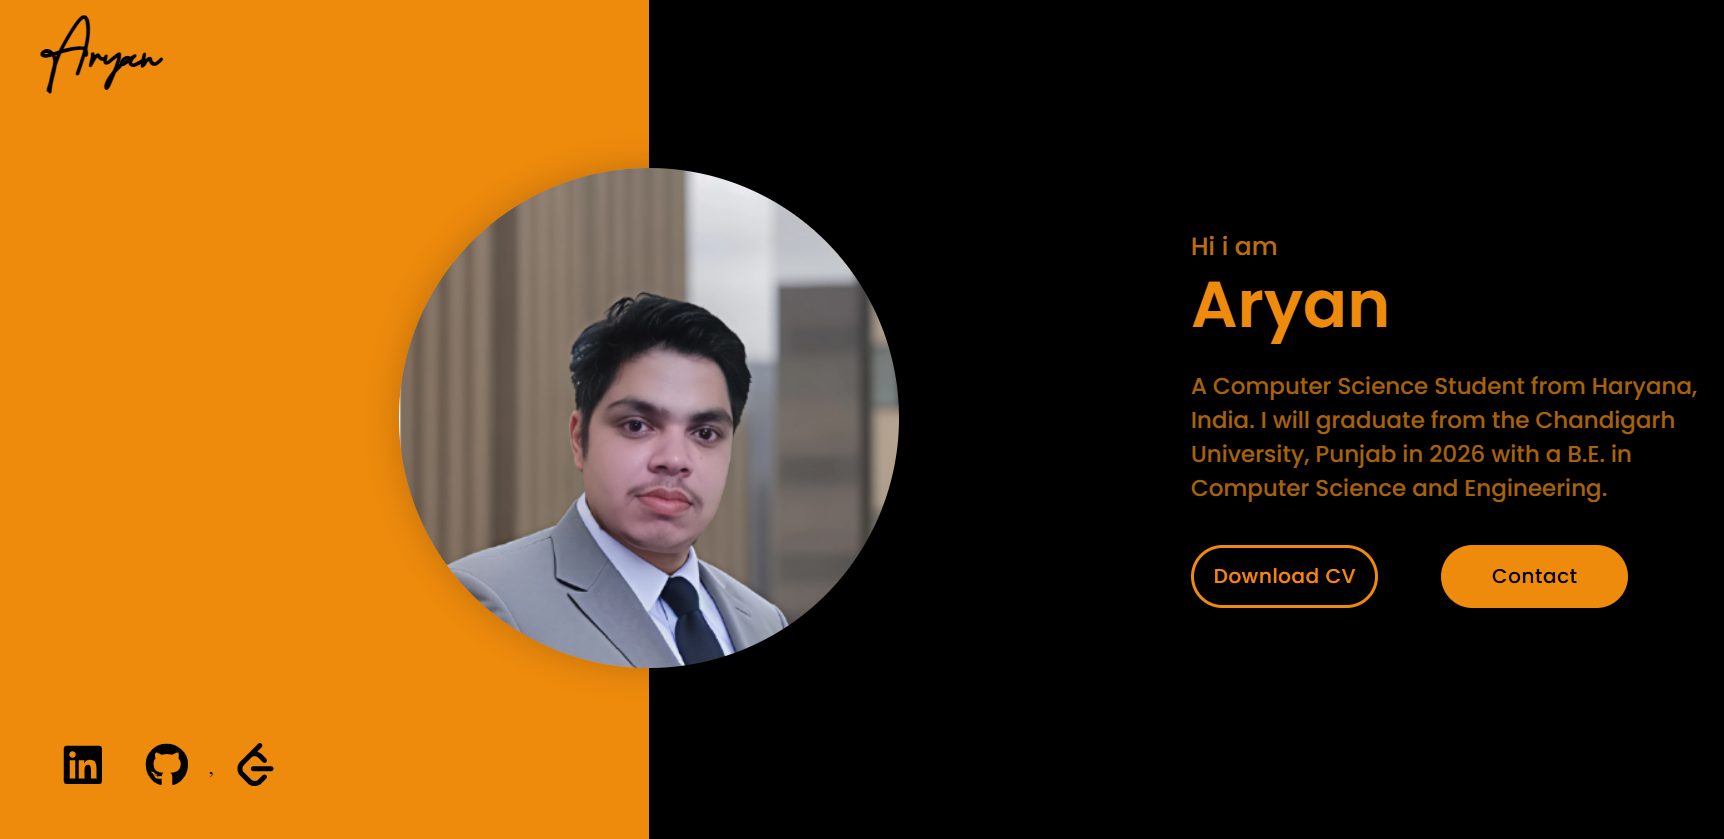
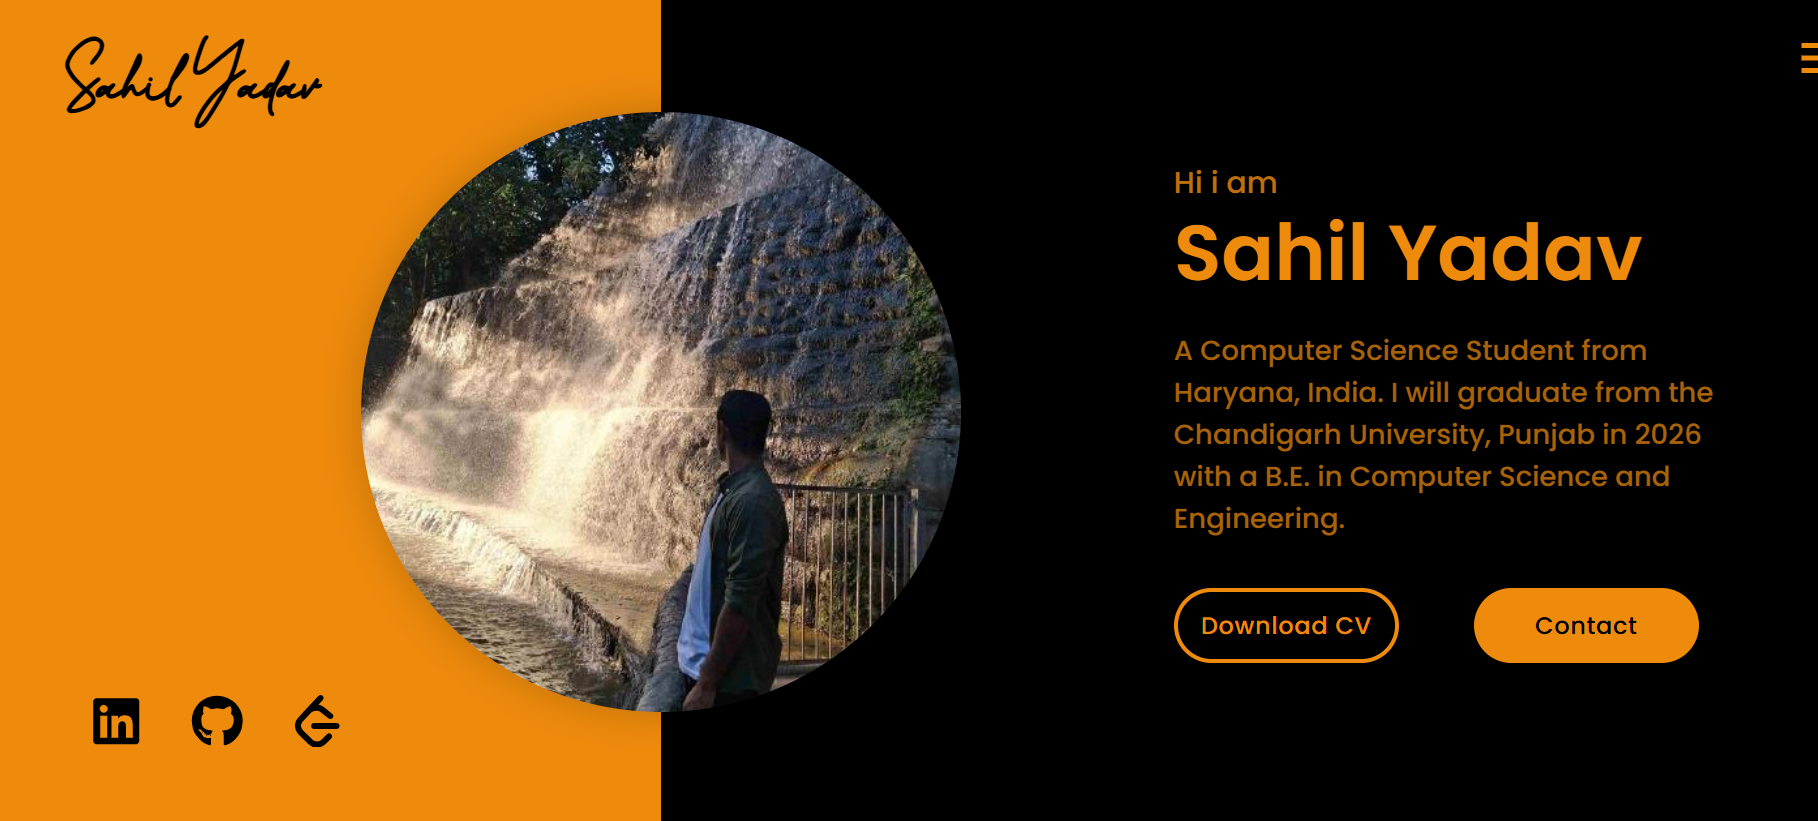
Initial portfolio commit

diff --git a/src/data/projectsData.js b/src/data/projectsData.js
@@ -7,7 +7,7 @@ export const projectsData = [
     
     {
         id: 1,
-        projectName: 'Calculator',
+        projectName: 'Snake Game',
         projectDesc: 'Developed responsive and dynamic calculator',
         tags: ['HTML', 'CSS', 'JavaScript'],
         code: 'https://github.com/Aryan-chaudhry/Projects/tree/main/Calculator',
@@ -15,7 +15,7 @@ export const projectsData = [
         image: Calculator
     },{
         id: 2,
-        projectName: 'Weather Forecast System',
+        projectName: 'AI vioce assistant',
         projectDesc: 'Developed a React-based weather app with 5-day forecasts, real-time tsunami/earthquake alerts (USGS), AI-generated weather warnings, interactive 3D globe, and custom location support via OpenCage API.',
         tags: ['React.js', 'Open Weather Map', 'OpenCage', 'USGS Api' ,'TailwindCSS', 'Javascript'],
         code: 'https://github.com/Aryan-chaudhry/Weather-Forecast',
@@ -24,7 +24,7 @@ export const projectsData = [
     },
     {
         id: 3,
-        projectName: 'Visitly, The Accomodation Platform',
+        projectName: 'Node.js Hotel Management System',
         projectDesc: 'This is a clone of an e-commerce website sportsjam.in. My contribution to this project was the product catalogue page and its features, like sorting and filtering. The rest of the project was built by various members of the group',
         tags: ['Ejs', 'Node.js','Express.js', 'MongoDB', 'Rest Api', 'Cloudinary', 'Javascript', 'Passport-Google-OAuth2', 'Facebook OAuth'],
         code: 'https://github.com/Aryan-chaudhry/Visitly',

diff --git a/public/index.html b/public/index.html
@@ -2,12 +2,12 @@
 <html lang="en">
   <head>
     <meta charset="utf-8" />
-    <link rel="icon" href="%PUBLIC_URL%/favicon.png" />
+    <link rel="icon" href="favicon.png" />
     <meta name="viewport" content="width=device-width, initial-scale=1" />
     <meta name="theme-color" content="#000000" />
     <meta name="description" content="Portfolio Website" />
-    <link rel="apple-touch-icon" href="%PUBLIC_URL%/favicon.png" />
-    <link rel="manifest" href="%PUBLIC_URL%/manifest.json" />
+    <link rel="apple-touch-icon" href="/favicon.png" />
+    <link rel="manifest" href="/manifest.json" />
     
     <meta name="description" content="Use Developer Portfolio and create your own personalised portfolio today! With multiple themes to choose from, our easily customisable, user friendly website is designed to cater to developers and freelancers alike." />
     <meta property="og:image" content="Developer Portfolio">

diff --git a/src/data/achievementData.js b/src/data/achievementData.js
@@ -7,7 +7,7 @@ import Hacktrack from '../assets/Images/Hacktrack.png'
 
 
 export const achievementData = {
-    bio : "The illiterate of the 21st century will not be those who cannot read and write, but those who cannot learn, unlearn, and relearn. - Alvin Toffler",
+    bio : "When life gives you lemons, make lemonade. I have always believed in this quote and have tried to make the most of every opportunity that comes my way",
     achievements : [
         {
             id : 1,
@@ -19,7 +19,7 @@ export const achievementData = {
         },
         {
             id : 2,
-            title : 'National-Level DSA Coding Quiz',
+            title : 'DSA Coding Quiz',
             details : 'Secure 53rd Rank out of 1,115',
             date : '',
             field : 'Coding',

diff --git a/src/data/aboutData.js b/src/data/aboutData.js
@@ -1,6 +1,6 @@
 export const aboutData = {
     title: "Who I am",
-    description1: "Hello! My name is Aryan i'm Passionate problem solver focused on mastering Data Structures & Algorithm through consistent practice on platforms like LeetCode",
+    description1: "Hello! My name is Sahil i'm Passionate problem solver focused on mastering Data Structures & Algorithm through consistent practice on platforms like LeetCode",
     description2: "Experienced MERN Stack developer building scalable, clean, and efficient full-stack applications with a strong emphasis on code quality.",
     image: 2
 }

diff --git a/src/data/socialsData.js b/src/data/socialsData.js
@@ -1,7 +1,7 @@
 export const socialsData = {
-    github: 'https://github.com/Aryan-chaudhry',
+    github: 'https://github.com/NIRLAJ',
     facebook: '',
-    linkedIn: 'https://www.linkedin.com/in/aryan-chaudhary-83571a252/',
+    linkedIn: 'https://www.linkedin.com/in/sahil-yadav-157a42266/',
     instagram: '',
     codepen: '',
     twitter: '',
@@ -10,6 +10,6 @@ export const socialsData = {
     medium: '',
     stackOverflow: '',
     gitlab: '',
-    Leetcode: 'https://leetcode.com/u/Aryan_306/',
+    Leetcode: 'https://leetcode.com/u/sy5742654/',
     youtube: ''
 }

diff --git a/src/data/headerData.js b/src/data/headerData.js
@@ -1,9 +1,9 @@
 import resume from '../assets/pdf/resume.pdf'
 
 export const headerData = {
-    name: 'Aryan',
+    name: 'Sahil Yadav',
     title: "Hi i am",
     desciption:"A Computer Science Student from Haryana, India. I will graduate from the Chandigarh University, Punjab in 2026 with a B.E. in Computer Science and Engineering.",
-    image: 'https://avatars.githubusercontent.com/u/157027129?s=400&u=895e09456daa47a22debbe8270a692e1309dd30b&v=4',
+    image: 'https://avatars.githubusercontent.com/u/150715924?v=4',
     resumePdf: resume
 }

diff --git a/src/data/contactsData.js b/src/data/contactsData.js
@@ -1,7 +1,7 @@
 export const contactsData = {
-    email: 'Aryanchaudhary2629@gmail.com',
-    phone: '+91 8683848559',
-    address: 'Karnal, Haryana, India',
+    email: 'sy5742654@gmail.com',
+    phone: '+91 8168678074',
+    address: 'Rewari, Haryana, India',
 
     sheetAPI: ''
 }

diff --git a/src/data/educationData.js b/src/data/educationData.js
@@ -8,7 +8,7 @@ export const educationData = [
     },
     {
         id: 2,
-        institution: 'Nishan Public School',
+        institution: 'Delhi Public School',
         course: 'Non-Medical PCM',
         startYear: '2021',
         endYear: '2022'

diff --git a/src/data/themeData.js b/src/data/themeData.js
@@ -6,6 +6,7 @@ import {
 
 export const themeData = {
     theme: blueThemeLight
+   // theme: greenThemeDark
 }
 
 
